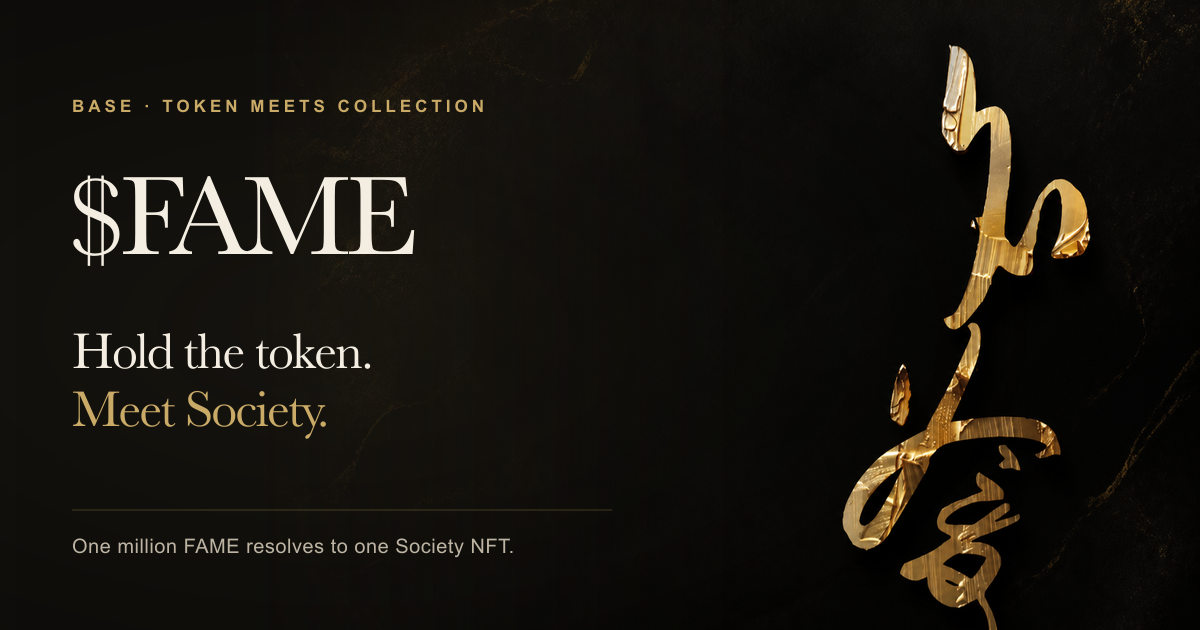
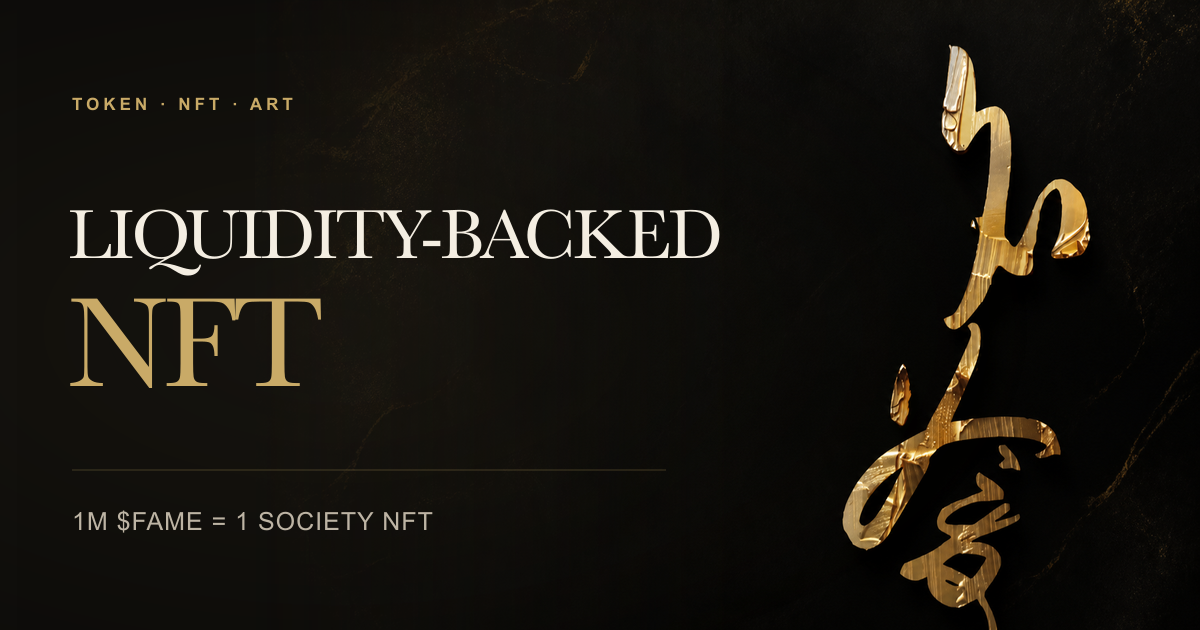
feat(fame): center liquidity-backed NFT positioning
Replace the FAME landing and social card hierarchy with the approved token/NFT/art framing and the 1M FAME equivalence proof.

diff --git a/src/features/fame/layout.tsx b/src/features/fame/layout.tsx
@@ -114,15 +114,13 @@ const Content: FC<{ market: LandingMarketPresentation }> = ({ market }) => {
         <div className="pointer-events-none absolute left-[-10rem] top-[-8rem] -z-10 h-[34rem] w-[34rem] rounded-full bg-[#c9aa67]/[0.07] blur-[120px]" />
         <div className="mx-auto grid min-h-[calc(100dvh-68px)] max-w-[1440px] items-center gap-10 px-5 pb-20 pt-16 sm:px-8 lg:grid-cols-12 lg:px-12 lg:pb-24 lg:pt-20">
           <div className="relative z-10 lg:col-span-7 lg:py-12">
-            <p className="fame-kicker">Base · token meets collection</p>
-            <h1 className="fame-display mt-6 max-w-4xl text-balance text-[clamp(4.2rem,9vw,8.8rem)] leading-[0.82]">
-              Hold the token.
-              <span className="mt-2 block text-[#c9aa67]">Meet Society.</span>
+            <p className="fame-kicker">Token · NFT · Art</p>
+            <h1 className="fame-display mt-6 max-w-4xl text-balance text-[clamp(3.7rem,7.5vw,7.5rem)] leading-[0.86]">
+              Liquidity-backed
+              <span className="mt-2 block text-[#c9aa67]">NFT</span>
             </h1>
-            <p className="mt-8 max-w-xl text-pretty text-base leading-7 text-[#bdb4a4] sm:text-lg sm:leading-8">
-              One million FAME resolves to one Society NFT. Trade the token,
-              collect the artwork, or rotate toward the Society you want—all on
-              Base.
+            <p className="mt-8 font-mono text-base uppercase tracking-[0.08em] text-[#bdb4a4] sm:text-lg">
+              1M $FAME = 1 Society NFT
             </p>
             <div className="mt-9 flex flex-wrap items-center gap-5">
               <PrimaryLink href="/fame/swap">Trade FAME</PrimaryLink>

diff --git a/src/features/fame/components/FameShell.test.ts b/src/features/fame/components/FameShell.test.ts
@@ -22,6 +22,8 @@ describe("FAME route shell", () => {
     assert.match(page, /url:\s*"\/images\/fame\/fame-social-card\.png"/);
     assert.match(page, /width:\s*1200/);
     assert.match(page, /height:\s*630/);
+    assert.match(page, /\$FAME — Liquidity-backed NFT/);
+    assert.match(page, /1M \$FAME = 1 Society NFT\./);
     assert.match(page, /openGraph:\s*\{\s*images:\s*\[fameSocialCard\]/);
     assert.match(page, /twitter:\s*\{/);
     assert.match(page, /card:\s*"summary_large_image"/);
@@ -73,6 +75,13 @@ describe("FAME route shell", () => {
     assert.doesNotMatch(landing, /BurnPoolImage|burnPool|unrevealed/);
     assert.doesNotMatch(landing, /href="\/fame\/gallery"/);
     assert.match(landing, /1 million \$FAME = 1 Society NFT/);
+    assert.match(landing, /Token · NFT · Art/);
+    assert.match(landing, /Liquidity-backed/);
+    assert.match(landing, /1M \$FAME = 1 Society NFT/);
+    assert.doesNotMatch(
+      landing,
+      /token meets collection|Hold the token|Meet Society/,
+    );
     assert.match(landing, /<SocietyNftReadinessRail/);
     assert.match(landing, /<FameFAQ/);
     assert.match(

diff --git a/src/app/fame/page.tsx b/src/app/fame/page.tsx
@@ -12,19 +12,19 @@ const fameSocialCard = {
   url: "/images/fame/fame-social-card.png",
   width: 1200,
   height: 630,
-  alt: "$FAME — Hold the token. Meet Society.",
+  alt: "Liquidity-backed NFT — 1M $FAME = 1 Society NFT",
 } as const;
 
 export const metadata: Metadata = {
   metadataBase: new URL("https://www.fameladysociety.com"),
-  title: "$FAME",
-  description: "The home of $FAME.",
+  title: "$FAME — Liquidity-backed NFT",
+  description: "1M $FAME = 1 Society NFT.",
   openGraph: { images: [fameSocialCard] },
   twitter: {
     card: "summary_large_image",
     site: "@FameLadySociety",
-    title: "$FAME",
-    description: "The home of $FAME.",
+    title: "$FAME — Liquidity-backed NFT",
+    description: "1M $FAME = 1 Society NFT.",
     images: [fameSocialCard],
   },
   // Keep frame discovery local and static; the landing must not fetch itself.
